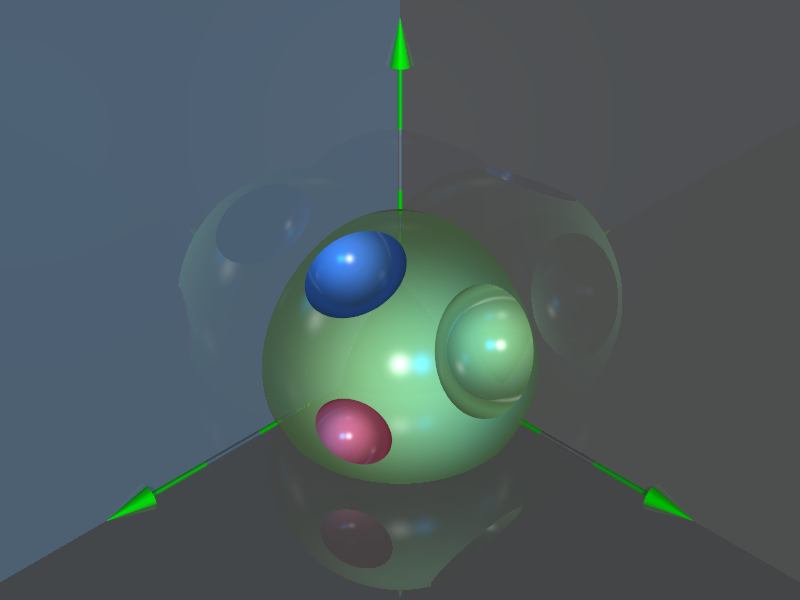
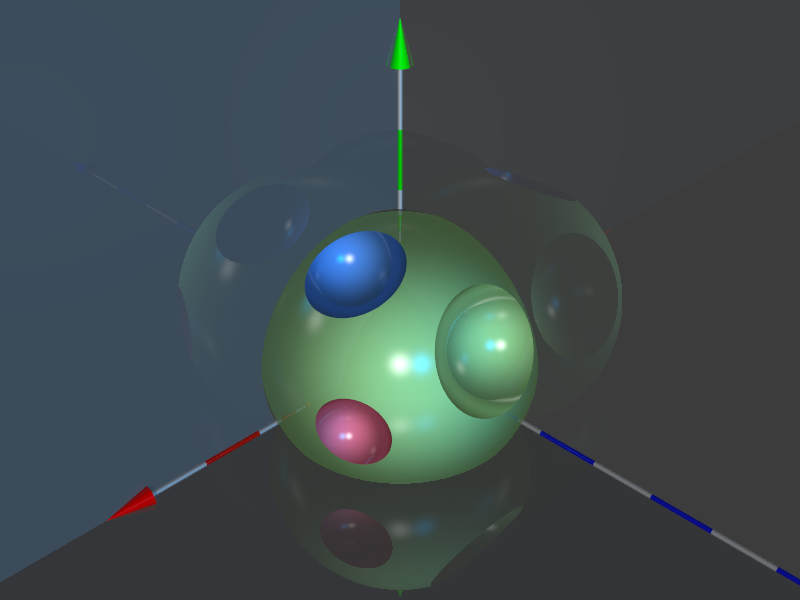
Macros, axis

diff --git a/examples/spheres_csg.m b/examples/spheres_csg.m
@@ -11,7 +11,12 @@ close all;
 % 4. Render slices (voxels ?)
 % 5. pov.equation("x^ * 2")
 % 6. pov.grid(...)
-% Validate parameters
+% 7. Validate parameters
+% 8. Get data from figure:
+%      axObjs = fig.Children
+%      dataObjs = axObjs.Children
+%      dataObjs(1) - Light
+%      dataObjs(2).XData; ...; dataObjs(2).CData
 
 pov = pov( "3.7",...
            "C:\Program Files\POV-Ray\v3.7\bin\pvengine64.exe", ...
@@ -23,7 +28,7 @@ pov.global_settings("assumed_gamma 1");
 
 pov.include("shapes");
 pov.include("textures");
-pov.include("axis");
+pov.declare_macros();
 
 pov.camera(35, [12 12 12], [0 1 0]);
 
@@ -33,32 +38,31 @@ pov.light([3000  2000 3000], [0.8 0.8 0.8]);
 tex_red   = pov.texture([1.0 0.2 0.3], "phong 1 reflection {0.10 metallic 0.4}");
 tex_green = pov.texture([0.4 0.8 0.3], "phong 1 reflection {0.20 metallic 0.1}");
 tex_blue  = pov.texture([0.1 0.3 0.8], "phong 1 reflection {0.10 metallic 0.8}");
-tex_plane = pov.texture([0.5 0.5 0.5], "phong 1 reflection {0.1 metallic 0.2}");
+tex_plane = pov.texture([0.3 0.3 0.3], "phong 1 reflection {0.1 metallic 0.2}");
 
-tex_axis_light = pov.declare("tex_axis_light", pov.texture([0 1 0], "phong 1 reflection {0.10 metallic 0.4}"));
-tex_axis_dark  = pov.declare("tex_axis_dark",  pov.texture([0.3 0.3 0.3], "phong 1 reflection {0.10 metallic 0.4}"));
-pov.axis([5 5 5], tex_axis_light, tex_axis_dark);
+tex_axis_common  = pov.declare("tex_axis_common", pov.texture([0.7 0.7 0.7], "phong 1 reflection {0.10 metallic 0.4}"));
+tex_axis_x = pov.declare("tex_axis_x", pov.texture([1 0 0], "phong 1 reflection {0.10 metallic 0.4}"));
+tex_axis_y = pov.declare("tex_axis_y", pov.texture([0 1 0], "phong 1 reflection {0.10 metallic 0.4}"));
+tex_axis_z = pov.declare("tex_axis_z", pov.texture([0 0 1], "phong 1 reflection {0.10 metallic 0.4}"));
+
+pov.axis([5 5 5], tex_axis_common, tex_axis_x, tex_axis_y, tex_axis_z);
 
 % Axis planes
 pov.plane([1,0,0], 0, tex_plane);
 pov.plane([0,1,0], 0, tex_plane);
 pov.plane([0,0,1], 0, tex_plane);
 
-% pov.plane([1,0,0], 0, tex_plane, [1 1 1; 0 0 0; -1 0 0]);
-% pov.plane([0,1,0], 0, tex_plane, [1 1 1; 0 0 0; 0 -2 0]);
-% pov.plane([0,0,1], 0, tex_plane, [1 1 1; 0 0 0; 0 0 -3]);
-
-% Grid
-pov.grid_2D([1 1], [10 10], tex_plane);
-pov.grid_3D([1 1 1], [10 10 10], tex_plane);
+% Grid - TODO: Implement
+% pov.grid_2D([1 1], [10 10], tex_plane);
+% pov.grid_3D([1 1 1], [10 10 10], tex_plane);
 
 pov.difference_begin();
     pov.sphere([1 1 1], 2.1, tex_green);
     pov.union_begin();
          pov.sphere([3 1 2], 0.6, tex_red);
-         pov.sphere([0 0 0], 0.8, tex_blue, [1 1 1; 0 0 0; 2 3 1]);
-         pov.sphere([0 0 0], 1.0, tex_green, [1 1 1; 0 0 0; 1 2 3]);
-pov.union_end();
+         pov.sphere([2 3 1], 0.8, tex_blue);
+         pov.sphere([1 2 3], 1.0, tex_green);
+    pov.union_end();
 pov.difference_end();
 
 pov.scene_end();

diff --git a/pov.m b/pov.m
@@ -63,6 +63,11 @@ classdef pov < handle
             s = symbol;
         end
 
+        % Macro
+        function macro(o, text)
+            fprintf(o.fh, '#macro %s#end\n\n', text);
+        end
+
         % Raw
         function raw(o, text)
             fprintf(o.fh, '%s\n\n', text);
@@ -85,10 +90,10 @@ classdef pov < handle
         end
        
         % Axis
-        function axis(o, size, tex_light, text_dark)
-            fprintf(o.fh,'object{ AxisXYZ( %0.1f, %0.1f, %0.1f,\n        %s, %s)}\n\n', ...
+        function axis(o, size, tex_common, tex_x, tex_y, tex_z)
+            fprintf(o.fh,'object{ axis_xyz( %0.1f, %0.1f, %0.1f,\n        %s, %s, %s, %s)}\n\n', ...
                     size(1), size(2), size(3), ...
-                    tex_light, text_dark);
+                    tex_common, tex_x, tex_y, tex_z);
         end
 
         % Grid 2D % TODO - Implement
@@ -201,6 +206,27 @@ classdef pov < handle
             figure;
             system(sprintf('"%s" /RENDER %s\\%s /EXIT', o.pov_path, o.out_dir, o.scene_file));
             imshow(o.image_file);
+        end
+
+        % Declare macros
+        function declare_macros(o)
+            % Axis
+            b = sprintf('axis( len, tex_odd, tex_even)\n');
+            b = sprintf('%s  union{ cylinder { <0, -len, 0>,<0, len, 0>, 0.05\n', b);
+            b = sprintf('%s    texture{ checker\n', b);
+            b = sprintf('%s      texture{ tex_odd }\n', b);
+            b = sprintf('%s      texture{ tex_even }\n', b);
+            b = sprintf('%s   translate <0.1, 0, 0.1> }}\n', b);
+            axis = sprintf('%s  cone{<0, len, 0>, 0.2, <0, len+0.7, 0>, 0 texture{tex_even} }}\n', b);
+            o.macro(axis);
+                
+            % Axis_XYZ
+            b = sprintf('axis_xyz( len_x, len_y, len_z, tex_common, tex_x, tex_y, tex_z)\n');
+            b = sprintf('%sunion{\n', b);
+            b = sprintf('%s#if (len_x != 0) object { axis(len_x, tex_common, tex_x) rotate< 0, 0,-90>} #end\n', b);
+            b = sprintf('%s#if (len_y != 0) object { axis(len_y, tex_common, tex_y) rotate< 0, 0, 0>}  #end\n', b);
+            axis_xyz = sprintf('%s#if (len_z != 0) object { axis(len_z, tex_common, tex_z) rotate<90, 0, 0>}  #end }\n', b);
+            o.macro(axis_xyz);
         end
     end
 end
